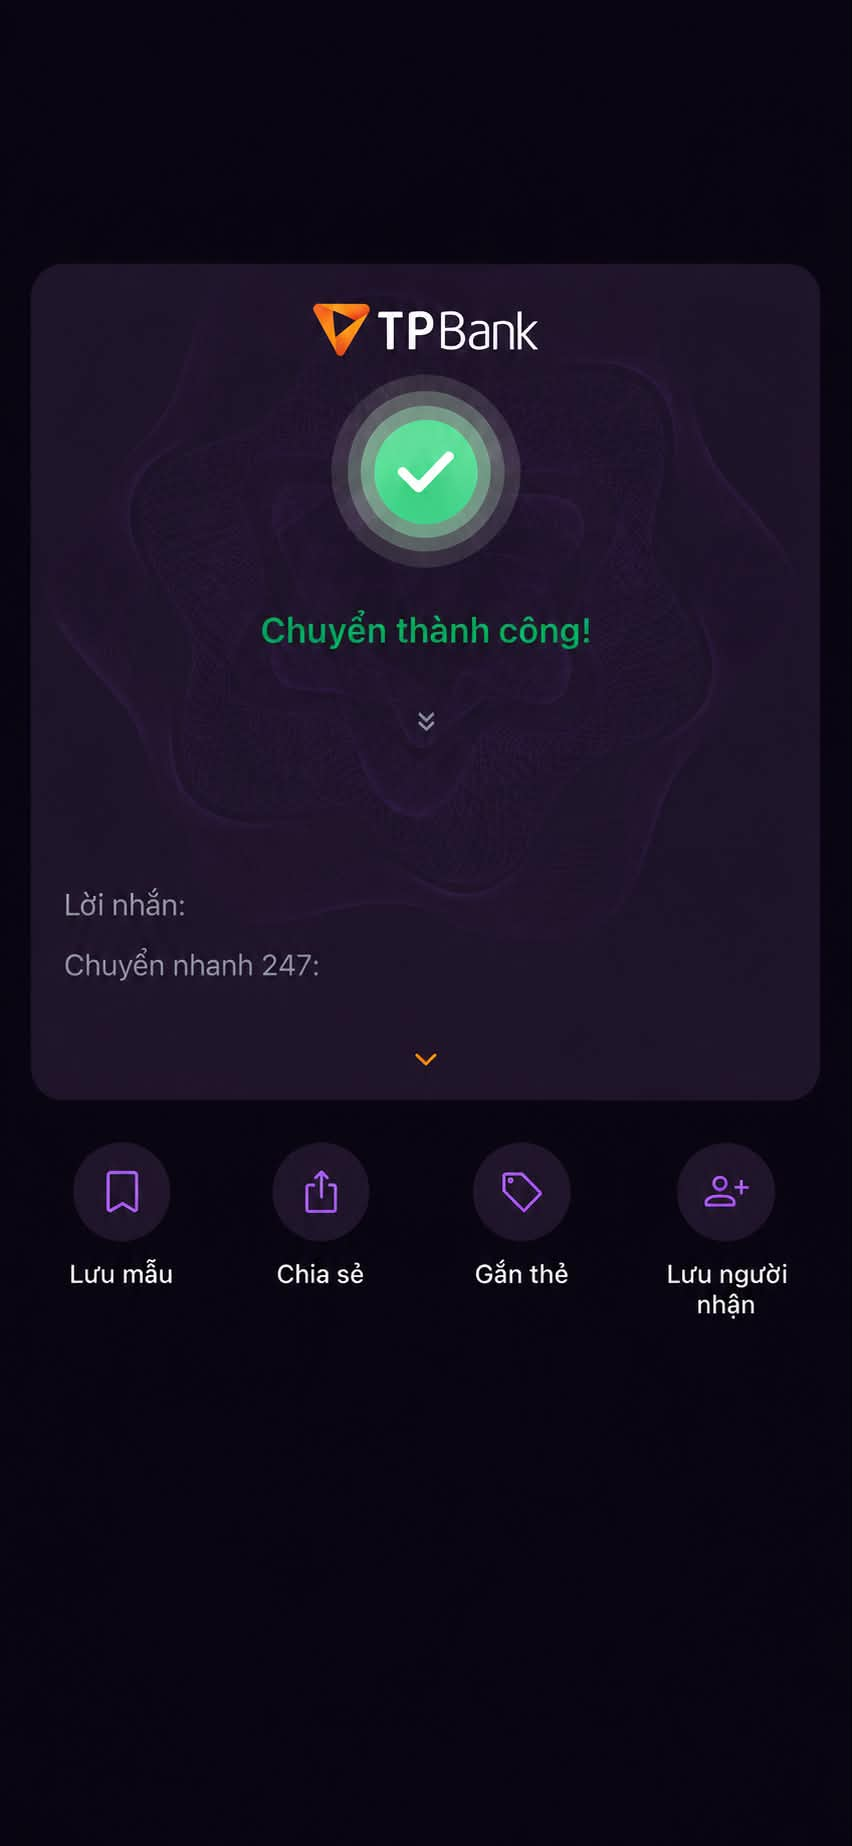
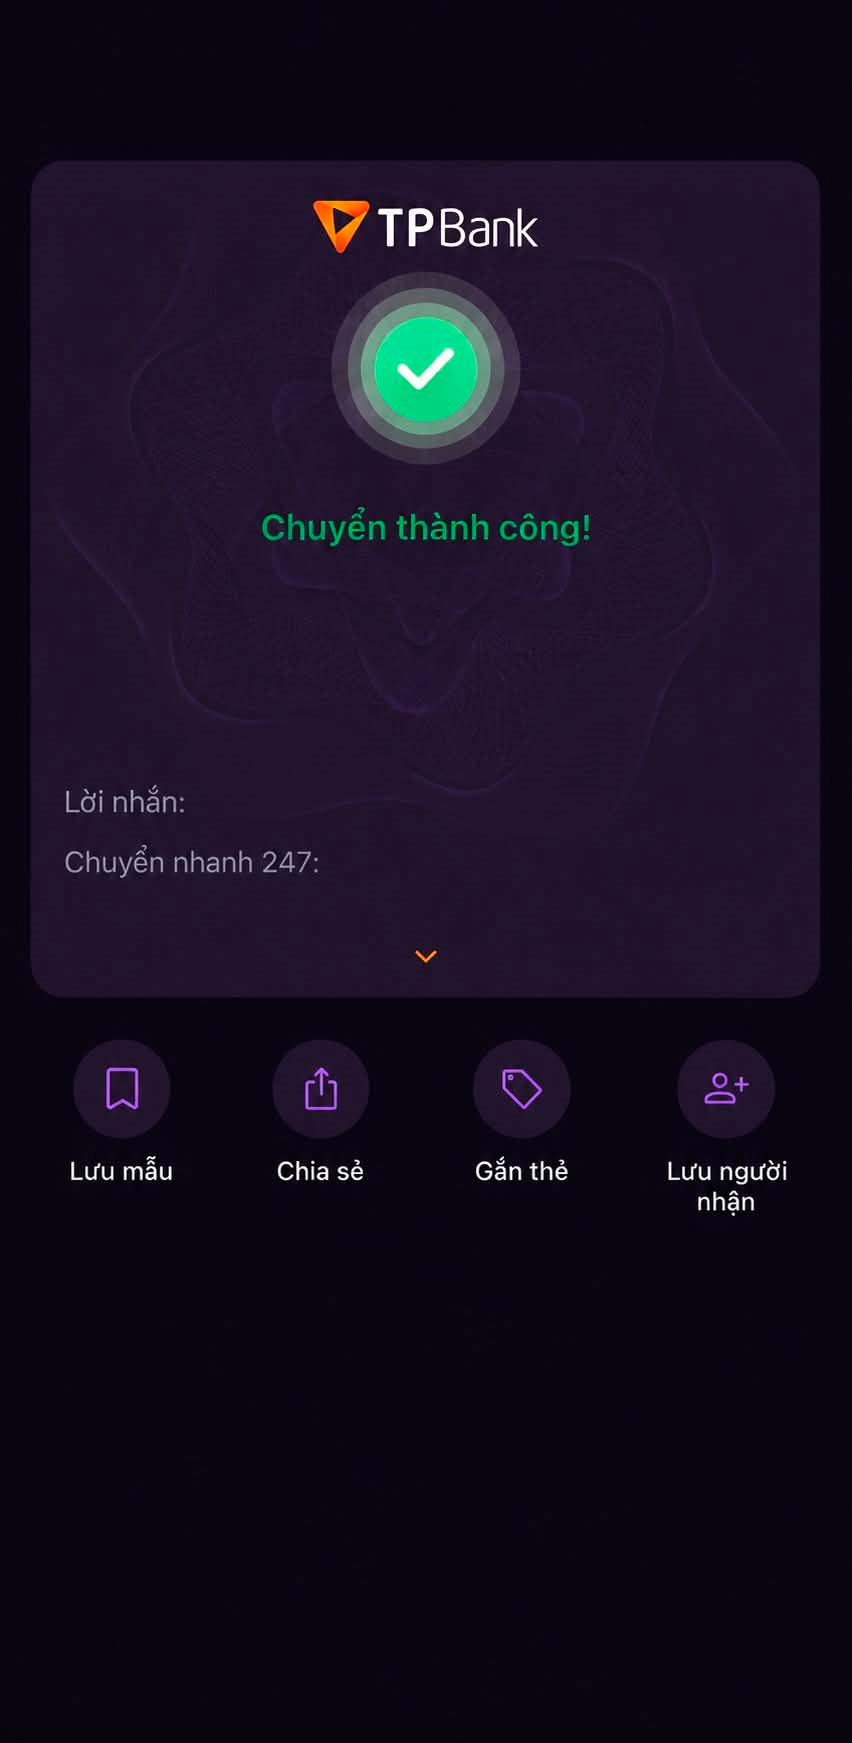
2

Changed region(s): [[0.0305, 0.0929, 0.9765, 0.4028], [0.0305, 0.5267, 0.9765, 0.7126], [0.061, 0.4337, 0.3662, 0.5267]]

diff --git a/app.js b/app.js
@@ -496,6 +496,8 @@
     const recipient = state.recipient;
     const now = state.receiptTime;
     const stamp = dateParts(now);
+    receiptCanvas.width = receiptBackground.naturalWidth;
+    receiptCanvas.height = receiptBackground.naturalHeight;
     const w = receiptCanvas.width;
     const officialBankLogo = await loadBankLogo(recipient.bank);
 
@@ -503,30 +505,25 @@
     receiptCtx.drawImage(receiptBackground, 0, 0, receiptCanvas.width, receiptCanvas.height);
     receiptCtx.textBaseline = "alphabetic";
 
-    // 1.png đặt hai nhãn chi tiết cao hơn ảnh tham chiếu. Sao chép vùng
-    // nền trống lân cận để xóa chúng, sau đó vẽ lại đúng vị trí của 2.png.
-    receiptCtx.drawImage(receiptBackground, 205, 880, 145, 48, 55, 880, 145, 48);
-    receiptCtx.drawImage(receiptBackground, 330, 938, 270, 54, 55, 938, 270, 54);
-
     // Các trường động trên nền 1.png.
     receiptCtx.textAlign = "center";
     receiptCtx.fillStyle = "#ffffff";
-    fitText(receiptCtx, formatMoney(state.amount), 690, 58, 400);
-    receiptCtx.fillText(formatMoney(state.amount), w / 2, 709);
+    fitText(receiptCtx, formatMoney(state.amount), 620, 52, 400);
+    receiptCtx.fillText(formatMoney(state.amount), w / 2, 600);
 
     const name = (recipient.name || "NGƯỜI NHẬN").toUpperCase();
     receiptCtx.fillStyle = "#a23ed8";
-    fitText(receiptCtx, name, 680, 32, 650);
-    receiptCtx.fillText(name, w / 2, 815);
+    fitText(receiptCtx, name, 620, 28, 650, 18);
+    receiptCtx.fillText(name, w / 2, 680);
 
-    // Hàng ngân hàng được đặt theo đúng tỷ lệ từ file 2.png.
-    drawBankLogo(receiptCtx, recipient.bank, 239, 867, officialBankLogo);
+    // Hàng ngân hàng nằm gọn phía trên hai nhãn có sẵn trong ảnh nền.
+    drawBankLogo(receiptCtx, recipient.bank, 239, 725, officialBankLogo);
     receiptCtx.textAlign = "left";
     receiptCtx.fillStyle = "#ffffff";
     const bankCode = recipient.bank.code.toUpperCase();
     const bankTextX = 273;
-    fitText(receiptCtx, bankCode, 175, 29, 700, 16);
-    receiptCtx.fillText(bankCode, bankTextX, 877);
+    fitText(receiptCtx, bankCode, 175, 26, 700, 15);
+    receiptCtx.fillText(bankCode, bankTextX, 735);
 
     // Tên ngân hàng có độ dài khác nhau; đặt vạch ngăn theo chiều rộng thực tế.
     const bankTextWidth = receiptCtx.measureText(bankCode).width;
@@ -535,32 +532,24 @@
     receiptCtx.strokeStyle = "rgba(178, 146, 194, .42)";
     receiptCtx.lineWidth = 2;
     receiptCtx.beginPath();
-    receiptCtx.moveTo(dividerX, 849);
-    receiptCtx.lineTo(dividerX, 886);
+    receiptCtx.moveTo(dividerX, 707);
+    receiptCtx.lineTo(dividerX, 744);
     receiptCtx.stroke();
 
     const formattedAccount = formatAccount(recipient.account);
     const accountTextX = dividerX + 24;
     receiptCtx.fillStyle = "#ffffff";
-    fitText(receiptCtx, formattedAccount, 786 - accountTextX, 29, 450);
-    receiptCtx.fillText(formattedAccount, accountTextX, 878);
-
-    // Hai hàng chi tiết dùng đúng lề, baseline và cỡ chữ từ file 2.png.
-    receiptCtx.textAlign = "left";
-    receiptCtx.fillStyle = "#9e97a7";
-    receiptCtx.font = "400 29px -apple-system, BlinkMacSystemFont, 'SF Pro Text', 'Helvetica Neue', Arial, sans-serif";
-    receiptCtx.fillText("Lời nhắn:", 64, 984);
-    receiptCtx.fillStyle = "#777180";
-    receiptCtx.fillText("Chuyển nhanh 247:", 64, 1041);
+    fitText(receiptCtx, formattedAccount, 786 - accountTextX, 26, 450, 16);
+    receiptCtx.fillText(formattedAccount, accountTextX, 735);
 
     receiptCtx.fillStyle = "#ffffff";
     receiptCtx.textAlign = "right";
-    receiptCtx.font = "500 29px -apple-system, BlinkMacSystemFont, 'SF Pro Text', 'Helvetica Neue', Arial, sans-serif";
-    receiptCtx.fillText("Chuyen khoan qua QR", 786, 984);
+    receiptCtx.font = "500 26px -apple-system, BlinkMacSystemFont, 'SF Pro Text', 'Helvetica Neue', Arial, sans-serif";
+    receiptCtx.fillText("Chuyen khoan qua QR", 786, 812);
 
     receiptCtx.textAlign = "right";
-    receiptCtx.font = "600 28px -apple-system, BlinkMacSystemFont, 'SF Pro Text', 'Helvetica Neue', Arial, sans-serif";
-    receiptCtx.fillText(stamp.full, 786, 1041);
+    receiptCtx.font = "600 25px -apple-system, BlinkMacSystemFont, 'SF Pro Text', 'Helvetica Neue', Arial, sans-serif";
+    receiptCtx.fillText(stamp.full, 786, 872);
 
     // Nhãn chống nhầm lẫn với biên lai thật.
     // receiptCtx.save();
@@ -582,11 +571,6 @@
     } else {
       startCamera();
     }
-  });
-
-  $("#useSample").on("click", function () {
-    setStatus("Đang đọc qr-sample.png…");
-    loadQrImage("qr-sample.png", false);
   });
 
   $("#qrFile").on("change", function () {

diff --git a/styles.css b/styles.css
@@ -117,7 +117,6 @@ h1 { margin: 0; font-size: clamp(28px, 8vw, 38px); letter-spacing: -.035em; }
 .status { min-height: 24px; margin: 15px 4px 10px; color: var(--muted); font-size: 14px; text-align: center; }
 .status.error { color: var(--danger); }
 .scan-actions { display: grid; grid-template-columns: 1fr 1fr; gap: 10px; }
-.scan-actions .ghost { grid-column: 1 / -1; }
 
 .button {
   display: inline-flex;
@@ -246,16 +245,45 @@ h1 { margin: 0; font-size: clamp(28px, 8vw, 38px); letter-spacing: -.035em; }
 .quick-amounts { display: grid; grid-template-columns: repeat(2, 1fr); gap: 8px; margin-top: 16px; }
 .quick-amounts button { min-height: 38px; border: 1px solid rgba(176, 98, 255, .25); border-radius: 12px; color: #d9b5ff; background: rgba(133, 57, 210, .1); cursor: pointer; }
 
-.receipt-screen { padding: 0; background: #07030c; }
-.receipt-wrap { line-height: 0; }
-#receiptCanvas { display: block; width: 100%; height: auto; background: #07030c; }
-.receipt-actions { display: grid; grid-template-columns: 1fr 1.25fr; gap: 10px; padding: 14px 16px max(18px, env(safe-area-inset-bottom)); background: #07030c; }
+.receipt-screen {
+  height: 100vh;
+  height: 100dvh;
+  min-height: 0;
+  padding: 0;
+  overflow: hidden;
+  background: #07030c;
+}
+.receipt-screen.active { display: flex; flex-direction: column; }
+.receipt-wrap {
+  display: flex;
+  flex: 1 1 auto;
+  align-items: center;
+  justify-content: center;
+  min-height: 0;
+  overflow: hidden;
+  line-height: 0;
+}
+#receiptCanvas {
+  display: block;
+  width: auto;
+  height: auto;
+  max-width: 100%;
+  max-height: 100%;
+  background: #07030c;
+}
+.receipt-actions {
+  display: grid;
+  flex: 0 0 auto;
+  grid-template-columns: 1fr 1.25fr;
+  gap: 10px;
+  padding: 10px 16px max(12px, env(safe-area-inset-bottom));
+  background: #07030c;
+}
 .sr-only { position: absolute; width: 1px; height: 1px; overflow: hidden; clip: rect(0,0,0,0); white-space: nowrap; }
 
 @media (max-width: 390px) {
   .screen { padding-left: 14px; padding-right: 14px; }
   .scan-actions { grid-template-columns: 1fr; }
-  .scan-actions .ghost { grid-column: auto; }
   .recipient-card { padding: 18px; }
   .bank-logo { flex-basis: 58px; width: 58px; height: 58px; border-radius: 17px; }
 }

diff --git a/index.html b/index.html
@@ -32,8 +32,7 @@
         <p id="scanStatus" class="status" role="status">Sẵn sàng quét mã QR</p>
         <div class="scan-actions">
           <button id="startCamera" class="button primary" type="button">Mở camera</button>
-          <button id="useSample" class="button secondary" type="button">Dùng QR mẫu</button>
-          <label class="button ghost" for="qrFile">Chọn ảnh QR</label>
+          <label class="button secondary" for="qrFile">Chọn ảnh QR</label>
           <input id="qrFile" type="file" accept="image/*" capture="environment" hidden>
         </div>
       </div>
@@ -89,7 +88,7 @@
     <section id="receiptScreen" class="screen receipt-screen" aria-labelledby="receiptTitle">
       <h1 id="receiptTitle" class="sr-only">Kết quả mô phỏng</h1>
       <div class="receipt-wrap">
-        <canvas id="receiptCanvas" width="852" height="1847" aria-label="Biên lai mô phỏng"></canvas>
+        <canvas id="receiptCanvas" width="852" height="1743" aria-label="Biên lai mô phỏng"></canvas>
       </div>
       <div class="receipt-actions">
         <button id="downloadReceipt" class="button secondary" type="button">Trang chủ</button>
